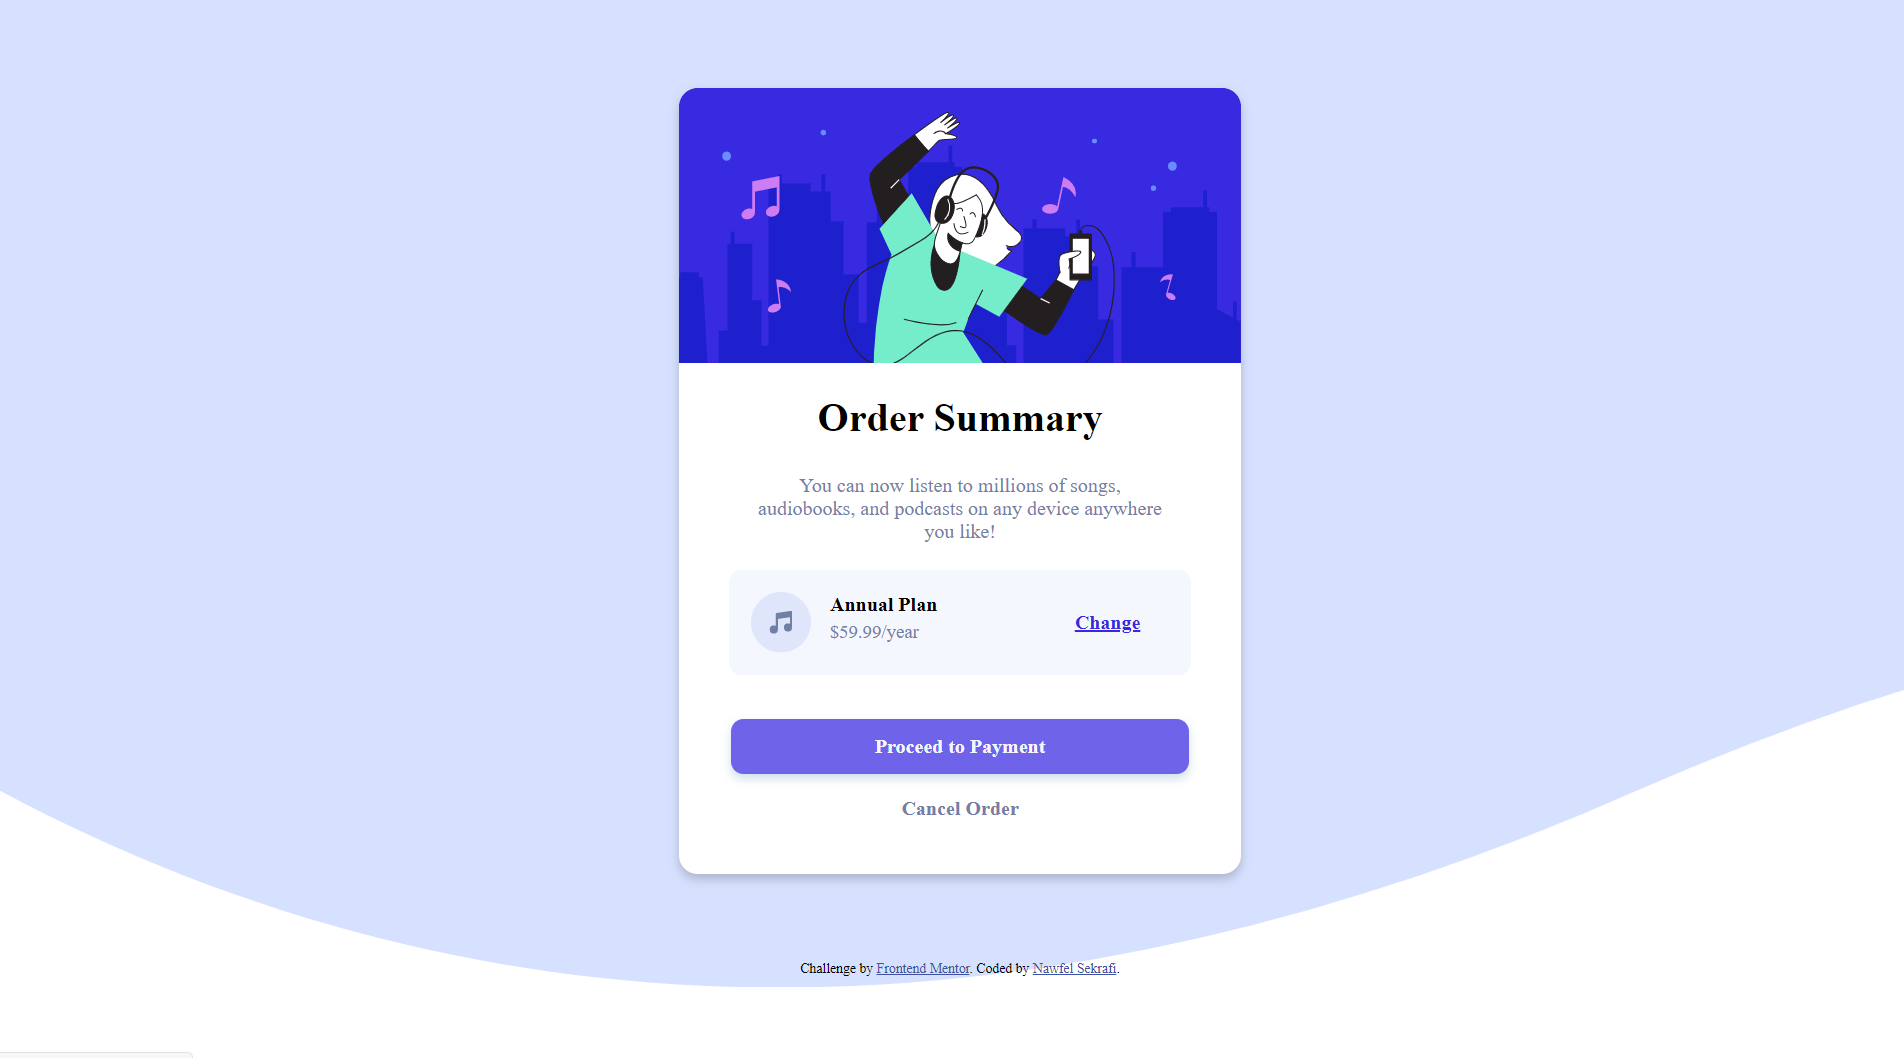
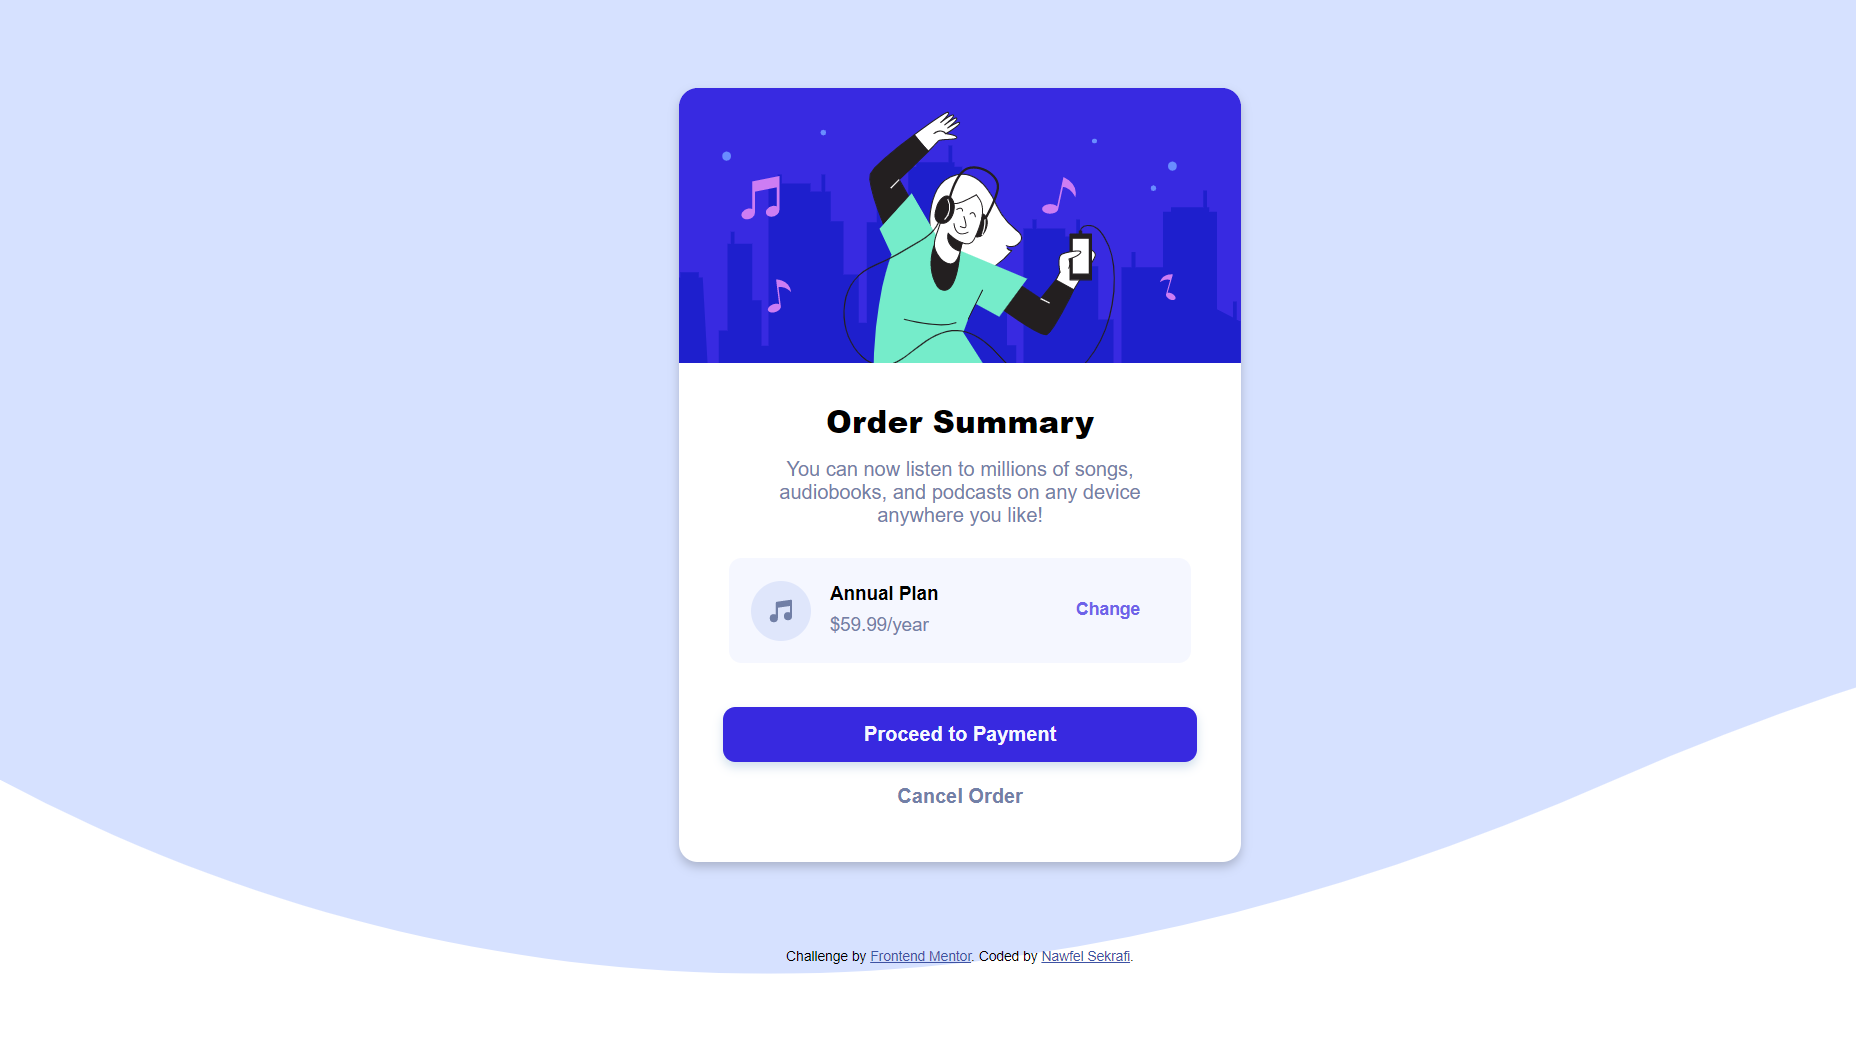
add red hat font

diff --git a/style.css b/style.css
@@ -4,7 +4,7 @@ body {
     background-image: url("images/pattern-background-desktop.svg");
     background-repeat: no-repeat;
     background-size: cover;
-    font-family: "Red Hat Display";
+    font-family:'Red Hat Display', sans-serif;
     font-weight: 500;
 }
 
@@ -19,6 +19,8 @@ main {
 
 #page-title {
     font-weight: 900;
+    font-size: 25px;
+    margin: 25px 0px -4px 0px;
 }
 
 #hero-img {
@@ -28,7 +30,7 @@ main {
 #description {
     font-size: 16px;
     color:  hsl(224, 23%, 55%);
-    padding: 5px 60px;
+    padding: 0px 60px 9px 60px;
 }
 
 #payment {
@@ -45,18 +47,19 @@ main {
 
 #Annual-plan {
     font-weight: 700;
-    font-size: 16px;
+    font-size: 15px;
 }
 
 #price {
     font-size: 15px;
-    margin: 4px 0px 0px -15px;
+    margin: 7px 0px 0px -8px;
     color:  hsl(224, 23%, 55%);
     display: inline-block
 }
 
 #change {
     font-weight: 700;
+    font-size: 14px;
     padding: 30px 30px 30px 110px;
     color:  hsl(245, 75%, 52%);
 }
@@ -74,7 +77,7 @@ main {
     display: inline-block;
     background-color: hsl(245, 75%, 52%);
     color:hsl(225, 100%, 98%);
-    padding: 13px 115px;
+    padding: 13px 113px;
     text-decoration: none;
     border-radius: 10px;
     box-shadow: 0 4px 8px 0 rgba(20, 96, 158, 0.2);
@@ -90,7 +93,7 @@ main {
     display: inline-block;
     color: hsl(224, 23%, 55%);
     font-weight: 700;
-    padding: 13px 115px;
+    padding: 13px 113px;
     text-decoration: none;
     border-radius: 7px;
 }
